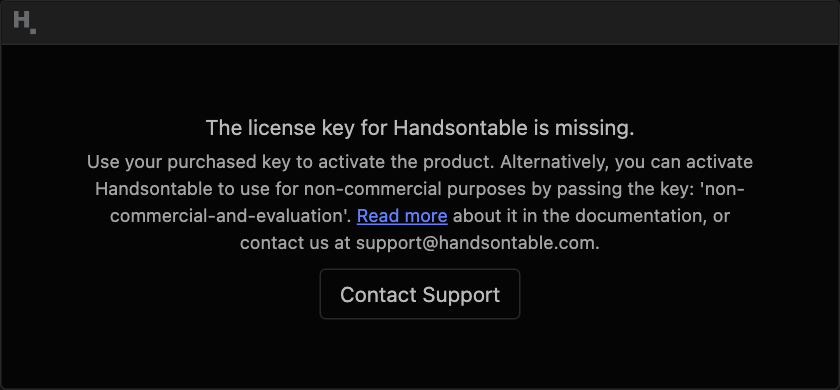
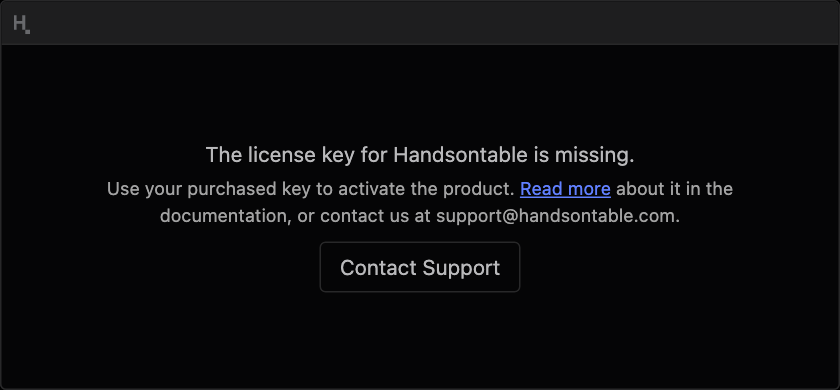
PRO-1357: Drop the non-commercial key sentence from the missing-key messages (#14138)
* PRO-1357: Drop the non-commercial key sentence from the missing-key messages

* PRO-1357: Add changelog entry for PR #14138

* PRO-1357: Retake the missing-key lock screenshots without the sentence

Changed region(s): [[0.0929, 0.3077, 0.8976, 0.7077], [0.4024, 0.7385, 0.619, 0.8], [0.0, 0.0308, 0.0619, 0.0923]]

diff --git a/handsontable/src/helpers/mixed.ts b/handsontable/src/helpers/mixed.ts
@@ -120,9 +120,7 @@ const consoleMessages: Record<string, (params: { keyValidityDate?: string; hotVe
     to ${keyValidityDate}. If you need any help, contact us at sales@handsontable.com.`,
   missing: () => toSingleLine`
     The license key for Handsontable is missing. Use your purchased key to activate the product.\x20
-    Alternatively, you can activate Handsontable to use for non-commercial purposes by\x20
-    passing the key: 'non-commercial-and-evaluation'. If you need any help, contact\x20
-    us at support@handsontable.com.`,
+    If you need any help, contact us at support@handsontable.com.`,
   non_commercial: () => '',
 };
 
@@ -182,9 +180,7 @@ const domMessages: Record<string, (params: { keyValidityDate?: string; hotVersio
     '.',
   ],
   missing: () => [
-    'The license key for Handsontable is missing. Use your purchased key to activate the product. ' +
-      'Alternatively, you can activate Handsontable to use for non-commercial purposes by ' +
-      'passing the key: \'non-commercial-and-evaluation\'. ',
+    'The license key for Handsontable is missing. Use your purchased key to activate the product. ',
     { text: 'Read more', href: 'https://handsontable.com/docs/tutorial-license-key.html', target: '_blank' },
     ' about it in the documentation or contact us at ',
     { text: 'support@handsontable.com', href: 'mailto:support@handsontable.com' },

diff --git a/tests/e2e/license-branding.spec.ts b/tests/e2e/license-branding.spec.ts
@@ -380,7 +380,10 @@ test.describe('entitlement license key branding', { tag: THEMES_TAG }, () => {
       await license.goto(INSTANT.duringTrial, { key: 'missing', variant: 'narrow' });
 
       await expect(license.lock).toBeVisible();
-      await expect(license.lock).toContainText('non-commercial-and-evaluation');
+      // The e-mail address is the longest unbreakable token left in the missing-key copy.
+      await expect(license.lock).toContainText('support@handsontable.com');
+      // PRO-1357: the lock no longer suggests the key the next major reads as invalid.
+      await expect(license.lock).not.toContainText('non-commercial-and-evaluation');
       expect(await license.lockContentOverflowPx()).toBe(0);
     });
 

diff --git a/tests/fixtures/pages/LicenseBrandingPage.ts b/tests/fixtures/pages/LicenseBrandingPage.ts
@@ -294,7 +294,7 @@ export class LicenseBrandingPage {
   /**
    * How far the lock's own content sticks out past the lock box, in pixels. The sentences moved here
    * from the bottom bar, which needed a minimum width and a scrolling slot for exactly this reason
-   * (DEV-2192): they hold unbreakable tokens ('non-commercial-and-evaluation', e-mail addresses) and
+   * (DEV-2192): they hold unbreakable tokens (e-mail addresses) and
    * the lock is only as wide as the grid, so on a narrow grid they used to push straight out of it.
    */
   async lockContentOverflowPx(): Promise<number> {

diff --git a/handsontable/src/utils/licenseBranding/content.ts b/handsontable/src/utils/licenseBranding/content.ts
@@ -100,9 +100,7 @@ export const LOCK_CONTENT: Partial<Record<LicenseStateKey, (lifecycle: LicenseLi
   }),
   missing: () => ({
     title: 'The license key for Handsontable is missing.',
-    description: 'Use your purchased key to activate the product. Alternatively, you can activate ' +
-      'Handsontable to use for non-commercial purposes by passing the key: ' +
-      '\'non-commercial-and-evaluation\'. ',
+    description: 'Use your purchased key to activate the product. ',
     action: { text: 'Contact Support', href: SUPPORT_MAILTO },
     docsLink: {
       text: 'Read more',

diff --git a/handsontable/src/utils/__tests__/licenseBranding.unit.js b/handsontable/src/utils/__tests__/licenseBranding.unit.js
@@ -711,7 +711,9 @@ describe('licenseBranding', () => {
         .querySelector('.ht-dialog__description').textContent;
 
       expect(description).toContain('Use your purchased key to activate the product.');
-      expect(description).toContain('passing the key: \'non-commercial-and-evaluation\'');
+      // PRO-1357: the next major reads that key as invalid, so the lock must not suggest it.
+      expect(description).not.toContain('non-commercial');
+      expect(description).not.toContain('Alternatively');
     });
 
     it.each(['invalid', 'missing'])(

diff --git a/handsontable/src/helpers/__tests__/mixed.unit.ts b/handsontable/src/helpers/__tests__/mixed.unit.ts
@@ -327,8 +327,6 @@ describe('Mixed helper', () => {
       expect(console.log).not.toHaveBeenCalled();
       expect(console.warn).toHaveBeenCalledWith([
         'The license key for Handsontable is missing. Use your purchased key to activate the product. ',
-        'Alternatively, you can activate Handsontable to use for non-commercial purposes ',
-        'by passing the key: \'non-commercial-and-evaluation\'. ',
         'If you need any help, contact us at support@handsontable.com.',
       ].join(''));
     });

diff --git a/handsontable/src/utils/entitlementLicenseKey/AGENTS.md b/handsontable/src/utils/entitlementLicenseKey/AGENTS.md
@@ -4,5 +4,5 @@ Rules for `src/utils/entitlementLicenseKey/` (the key reader), `src/utils/licens
 
 - **`KNOWN_CAPABILITIES` is assembled, never edited by hand.** `constants.ts` builds it from `['core', ...XLSX_CAPABILITY_IDS, XLSX_ALL_CAPABILITY]` (`utils/xlsxEngine/licenseCapabilities.ts`, which re-exports the list generated from `features.json` into `licenseCapabilities.generated.ts`; `xlsx:all` is the namespace grant, not a feature, and stays hand-written); the token names and descriptions live in `utils/xlsxEngine/features.json`, and the token rules in `src/featureManifest/AGENTS.md`. Whether a key restricts a family is decided by the per-product `listed-capabilities` flag (`LISTED_CAPABILITIES_FLAG`, equal to `KEY_FLAG` in `scripts/utils/feature-manifest.js`), not by the presence of a token: a `handsontable` entry without the flag unlocks every feature, because every key issued before the tokens existed carries only `core`, and a flagged entry unlocks exactly the tokens it lists (`xlsx:all` lists the whole xlsx family). Never read "no `xlsx:*` token" as "nothing unlocked". The flag rule is `_listsCapabilities()` in `_getLicenseState` (`helpers/mixed.ts`), which returns `UNRESTRICTED_GRANTS` for an entry without the flag; `resolveXlsxEntitlement(grants)` in `utils/xlsxEngine/xlsxEntitlement.ts` only maps the grants to the xlsx switches, and reads the flag nowhere.
 - **`__tests__/buildTestKey.js`, `__tests__/fixtures.js` and `__tests__/xlsxLicenseKeys.js` have an external consumer**: the Playwright license fixture `tests/fixtures/xlsxLicenseKeys.ts` imports them through Playwright's loader. Moving or renaming any of them breaks the `tests/e2e/xlsx-*-license` specs as well as the Jest suites; update that fixture in the same change. A flagged key from `keyWith()` also lists `feat:all` and `cell:all` (`NON_XLSX_TOKENS`): a flagged key turns off every plugin and cell type it does not list (the capability gate below), so without them a test of the xlsx gates would lose MergeCells, Comments, Formulas, AutoColumnSize, and the ExportFile and ImportFile calls themselves.
-- **License key validation is inlined and layered**: an entitlement key (plain-English prose followed by a machine-readable `[...]` block) is read by `src/utils/entitlementLicenseKey/` (`detectFormat.ts` = which format a key is in → `extractKeyData.ts` = key reader → `classify.ts` = window evaluation + silencing flags → `grants.ts` = capability tokens) — a port of `src/entitlement-key/` from the private `handsontable/license-key` repo; never add that package as a dependency, and keep the reader byte-compatible with it (a key the canonical validator rejects must not read here). The obfuscated legacy 25-character block in `helpers/mixed.ts` is frozen — an entitlement key routes out BEFORE it via the trailing-block shape test, and legacy CONSOLE behavior (including exact message text) must never change. **One legacy DOM behavior did change, by product decision (DEV-2562):** a missing or invalid key no longer renders a bottom bar — it renders the blocking modal instead (see below). Nothing else about the legacy path moved. **How a key is verified is documented in the private `license-key` repository, not here, and must stay out of this public file** - the key format and its versions in `.ai/ENTITLEMENT-KEY-FORMAT.md`, whose "Handsontable port" section holds the rules specific to this reader (18.1 compatibility, the keys already issued, the last sync). Read it before changing `extractKeyData.ts`; `vendor/entitlement-key-reader/` is copied into public repos, so nothing about the scheme goes there either, and keep the verification details out of this file, the code comments and pull request descriptions. The rules that matter here: change the reader only together with the canonical reader, and diff the port against `vendor/entitlement-key-reader` at the revision `__tests__/fixtures.js` names (`license-key` commit 12b800468a, after 6.2.0, at the last sync); every key format must stay readable by Handsontable 18.1, and the keys already issued must keep reading (the website form issues trial keys every day), so never tighten a rule on its own here - a key the canonical reader accepts must read here, and one it rejects must not; read payload fields as own properties, never through the prototype chain; do not bring back the `license-key` 5.0.0 rule, which was never released and locked 18.1 out of new keys and this reader out of the keys already issued. Never cut a key down to its block or strip characters from it before reading. Copy `PROSE_WHITESPACE` and `ESCAPED_WHITESPACE` verbatim from the vendored reader, never as `\s`, and keep their `\u` escapes as escapes - the file must stay 7-bit ASCII, and a raw U+2028 ends the regex literal. Fixtures are whole keys from the generator (`__tests__/fixtures.js` names the commit), because `buildTestKey` uses this reader's own helpers and so cannot catch a mismatch with the generator. A key whose block a mail client wrapped reads here and does NOT read on 18.1 (it locks the grid there). Whitespace AROUND the whole key IS trimmed, by `_trimKey` at the head of both `_injectProductInfo` and `_getLicenseState`, because an untrimmed key reads as `invalid` and `invalid` now blocks — trim in one of the two and they desync). **No contract type in the payload**: which of `usage_until` / `release_until` is present decides how the license is measured, and the `trial` flag decides only how it is worded — never branch on a tier, mode or plan name, none of which exist in the key. Exactly one of the two dates per product, a real bare `YYYY-MM-DD` STRING, or the key is invalid (`parseIsoDateToTimestamp` checks the type first: `['2027-08-12']` stringifies to a valid date, and an object with a non-function `toString` throws when stringified - a key must only ever read as data or as `null`, so never stringify a payload value before checking it is a string); `notice`/`grace` arrive IN the key (no behavioral constants in the library). Date rules that the specification's J-fixtures pin: `usage_until` is inclusive (valid until the UTC midnight that FOLLOWS it), the notice window is `notice > 0 && daysRemaining <= notice` with days counted UTC-midnight to UTC-midnight (60 at the window's open, 0 on the last licensed day), the hard stop is expiry + 1 day + `grace`, and `release_until` is compared to the build release date as TEXT (no clock, airgap-safe, fails OPEN when the build date is unavailable). Reading is STRICT about shape and LENIENT about vocabulary: an unknown product, capability token, flag or extra field is kept and ignored, never an error, or every token added on the issuing side would break builds already in the field. A key that grants another product but not `handsontable` is not a Handsontable license — it messages as invalid, and its grants stay unrestricted. The grants API is uniform across key families: legacy/missing/invalid keys resolve to unrestricted grants, so capability gating can never take a feature away from an existing customer. **So does an entitlement key whose Handsontable entry lacks the `listed-capabilities` flag** (the flag rule; `_listsCapabilities()` in `_getLicenseState`). Every key issued before the flag lists only `core`, and the reader's `hasCapability()` answers `false` for every token an entry does not list, flag or not, so a gate that read the reader's grants without that check would turn off every paid feature of every customer. The rule lives in `mixed.ts`, never in the reader port, which stays byte-compatible with the canonical reader (whose own `AGENTS.md` says the same). The gate built on it is `src/utils/licenseCapabilities/` (resolve, check, report) plus the message half in `licenseNotification.ts`; its rules are in a bullet of their own below. The branding UI is a MODULE CATALOG (`src/utils/licenseBranding/`: `index.ts` = state routing (read once at init), `content.ts` = copy, `badge.ts` = corner badge + popover, `lockScreen.ts` = the blocking lock screen) — a core util, NOT a plugin (plugins can be absent or disabled; license UI must not be). The corner badge + popover render for TRIAL states ONLY (`POPOVER_CONTENT` in `content.ts` holds exactly `trial_valid`, `trial_notice`, `trial_soft_stop`). Every other state — expired legacy, non-commercial, a running or lapsed subscription, a perpetual license (and the two blocking states, which show the modal instead) — shows NO badge; its console message and any bottom bar still come from `initLicenseNotification`/`_injectProductInfo` (the legacy console/bar messaging stays untouched, and `_classifyLegacyKey` in `mixed.ts` mirrors the frozen checks read-only). The two silencing flags are per product and resolved once into `descriptor.channels`: `no-console-warns` closes the console, `no-ui-warns` closes every WARNING surface (badge, popover and bar) — that is what keeps license copy away from the end users of a customer's SaaS app, so never render a license *warning* without checking `channels.ui`. **The `badge` flag (`BADGE_FLAG`) is not a channel, and no channel closes it:** it says the licensee agreed to show the "Powered by Handsontable DataGrid" bar (a sponsored license's term), which is branding, not a warning, so the bar renders outside the `channels.ui` gate, with or without `no-ui-warns`. The reader only keeps the flag in the entry's `flags`; `resolveChannels` ignores it, and the surface that shows the bar (DEV-3413) reads it from the entry itself. A key issued for external use carries `no-ui-warns` AND `badge` (fixture `SPONSORED_BADGE_EXTERNAL_KEY`), which is exactly the case the flag exists for. Do not confuse it with the trial corner badge, which `no-ui-warns` does close. **It does NOT close the LOCK (DEV-2709).** The flag covers UI *warnings*; the hard stop is the *enforcement* of a license that has stopped — so `mountBrandingSurface` routes `LOCK_CONTENT` BEFORE the channel gate, and only the badge sits behind it. What this fixed is external/SaaS **trials**: they are the only externally-issued keys that can be blocked at all (a lapsed subscription `usage_hard_stop` has no `LOCK_CONTENT` entry and blocks nothing, and `release_expired` never blocks). Only `trial_hard_stop` changes in practice — `invalid` and `missing` describe keys whose flags could not be read, so both always resolve to open channels and reached the lock either way. **This is a product decision, not a reading the specification states:** §4.1 heads its behavior column "Behaviour (unless `silent`)" over a hard-stop row reading "Trial: block", which read literally puts the block inside the silenced set, while §2.3's `trial` row separates "Trial messages" from "hard-stop block". The spec still needs amending to record the split — do not revert this from §4.1 alone. The same caveat is repeated at `NO_UI_WARNS_FLAG` (`entitlementLicenseKey/constants.ts`) and on `LicenseChannels` (`types.ts`), because those are the definition sites a maintainer reads first. The corner badge is click-through (`pointer-events: none`) so the corner header keeps its native select-all — hover is detected by delegation (`is-corner-hover` class), and the glyph itself is pure CSS - an `::after` inside the corner header cell, gated by BOTH `ht-license-badge-on` (on the root element) and `ht-license-badge-corner` (a class JS stamps on THIS grid's own corner-clone table, resolved via the Walkontable overlay); the glyph CSS keys off that marker, NEVER the structural `.ht_clone_top_inline_start_corner` class, which also matches a nested grid's corner clone and would paint a stray badge there. So it can never overflow or drift out of the corner; never rebuild it as a measured overlay (the overlay version broke visual tests with misaligned badges) - JS measurement exists only to anchor the popover. The mask carries the whole logomark (the "H" and its dot) in one color, in the corner glyph and in the lock-screen strip alike; the lock box has the mark's own 11.1415:16 proportions so its "H" starts at the start padding in RTL too. Only the corner glyph paints the blue dot, as a second `background-image` layer (`$license-badge-dot` in `_license-branding.scss`) drawn in the same viewBox, so both sized `contain` and centered land on each other - draw any new layer in that viewBox, keep `background-position: center`, and keep the brand blue inside the image. The popover is a PURELY VISUAL floating element: no focus scope, no shortcuts, badge/link/close all `tabindex="-1"`, visibility is pointer-only, close is mouse-click only (the info is duplicated in the console + bottom bar). The hard stop renders the CORE-OWNED lock screen (`lockScreen.ts`) — NEVER the Dialog plugin (a shared surface an app legitimately uses: any `show` would replace the lock, any hide would look like a dismissal, and `dialog: true` setups would never tear it down); the lock instead REUSES the confirm-dialog CSS by wearing its class names (`ht-dialog ht-dialog--confirm handsontable ...` — the stylesheet always ships in full, so styling is inherited without importing the plugin) and copies its width sizing (pin `style.width` to the table workspace width on `afterViewRender`, or the `.ht-dialog` box spans the whole root wrapper, not the grid). The lock DOES use the focus manager (modal scope) + shortcut manager (Tab trap only - the lock is non-dismissable, so there is no Escape/close). THREE states render the lock, and `LOCK_CONTENT` in `content.ts` IS that routing — adding a state to that table is what makes it block: `trial_hard_stop`, `invalid`, and `missing`. The last two are the specification's §4.5 shape, whose message text was answered by the product owner as 'the sentences the bottom bar used to carry', so those two states now show the modal INSTEAD of a bar (`_rendersBlockingModal`/`_BLOCKING_MODAL_STATES` in `mixed.ts` withhold the bar in both emitters; the console message is untouched, and the two locks point at support@ rather than sales@ because both are install faults, and carry the bar's documentation link as a real anchor inside the description). A hard-stopped subscription (`usage_hard_stop`) still blocks nothing and shows nothing: it repeats its soft-stop console error and that is all (18.1 never blocks a paying customer). **The soft-stopped trial deliberately shows BOTH a bar and its auto-opening popover, carrying the same two sentences — do not "de-duplicate" it (tried and reverted under DEV-2709).** The bar is the only license surface with a focusable link and a registered focus scope (`licenseNotification.ts`), while the popover is pointer-only by design (`tabIndex = -1` throughout, no focus scope, no `aria-live`); and the bar is the only surface that survives dismissal — on a grid with no corner cell, `is-cornerless` kills the hover path and every CSS rule that reopens the popover, so once the X is clicked the message is gone for the instance's life. Removing the bar there needs the popover to become keyboard-reachable and re-openable first. **Consequence for tests: a grid built with no `licenseKey` is now BLOCKED** — the lock deselects the cell and takes the keyboard, so every test grid must declare a key (the Jasmine helper injects `TEST_LICENSE_KEY` from `test/helpers/licenseKey.js` already; jsdom unit tests that call `new Handsontable` directly must import it and set it themselves, or selection-dependent assertions fail for no visible reason). Each suite reads its key from one place: `test/helpers/licenseKey.js` here, `tests/fixtures/demo/test-license-key.js` (`window.htTestLicenseKey`) in the Playwright fixtures, and a `licenseKey.ts` or `license-key.ts` in each wrapper's tests. Only a test of the license behavior itself writes a key out, and `scripts/__tests__/test-license-key.test.mjs` (root `test:tooling`) fails on a literal key in any other test file. The license key is read ONCE at init (like the console message and the bottom bar) — `updateSettings({licenseKey})` does NOT re-brand; applying a new key needs a fresh instance. Expiry compares against the build's release date, read BARE as `process.env.HOT_RELEASE_DATE` (in `licenseNotification.ts` and `licenseBranding/index.ts`) — the bundler (rspack DefinePlugin for `dist/`, SWC `inlineEnvVars` for `tmp/`) replaces it with a string literal, so NEVER wrap it in a `typeof process` guard: the guard is not inlined, compiles to `false` in browser bundles, blanks the date, and silently disables expired-key detection (an 18.0.0 regression). The badge reads its corner clone through the Walkontable API (`getOverlayByName`), NEVER a CSS `querySelector` on the root subtree (a nested grid — handsontable cell type — has its own corner clone earlier in document order that a selector would wrongly match). `extractEntitlementKeyData` memoizes on the key string (it is read twice per init) and returns frozen data, as the canonical reader does - copy an array before sorting or changing it. User-facing sentences repeated across surfaces (bar, popover, lock) live once as constants in `mixed.ts` (e.g. `_LICENSE_EXPIRED_TITLE`; every license symbol there is underscore-prefixed, because `index.ts` copies each non-underscore export of that module onto the public `Handsontable.helper`) — edit the constant, not each surface; every message is transcribed from the license specification, so reword it there first. Dates print as bare `YYYY-MM-DD`, with the `(UTC)` marker on console messages for `usage_until` and none on `release_until` (no clock takes part) or on the end-user-facing UI. The state-keyed tables (console/DOM notifications in `mixed.ts`, badge/lock content in `content.ts`) are typed `Partial<Record<LicenseStateKey, …>>`, NOT `Record<string, …>` — a typoed or unknown state key is then a compile error instead of a silently dropped entry. Test fixtures: real generator-produced keys in `src/utils/entitlementLicenseKey/__tests__/fixtures.js` (one per worked example of the specification) plus a test-only key builder (`buildTestKey.js`) for the shapes the generator refuses to produce; it must never be imported from `src/`.
+- **License key validation is inlined and layered**: an entitlement key (plain-English prose followed by a machine-readable `[...]` block) is read by `src/utils/entitlementLicenseKey/` (`detectFormat.ts` = which format a key is in → `extractKeyData.ts` = key reader → `classify.ts` = window evaluation + silencing flags → `grants.ts` = capability tokens) — a port of `src/entitlement-key/` from the private `handsontable/license-key` repo; never add that package as a dependency, and keep the reader byte-compatible with it (a key the canonical validator rejects must not read here). The obfuscated legacy 25-character block in `helpers/mixed.ts` is frozen — an entitlement key routes out BEFORE it via the trailing-block shape test, and legacy CONSOLE behavior (including exact message text) must never change. **One legacy DOM behavior did change, by product decision (DEV-2562):** a missing or invalid key no longer renders a bottom bar — it renders the blocking modal instead (see below). **One legacy console sentence was dropped, by product decision (PRO-1357):** the missing-key message (the console text and the bar text in `mixed.ts`, and the lock copy in `licenseBranding/content.ts`) no longer tells the developer to pass `'non-commercial-and-evaluation'`, because the next major reads that key as invalid. The key itself still reads as non-commercial; do not bring the sentence back. Nothing else about the legacy path moved. **How a key is verified is documented in the private `license-key` repository, not here, and must stay out of this public file** - the key format and its versions in `.ai/ENTITLEMENT-KEY-FORMAT.md`, whose "Handsontable port" section holds the rules specific to this reader (18.1 compatibility, the keys already issued, the last sync). Read it before changing `extractKeyData.ts`; `vendor/entitlement-key-reader/` is copied into public repos, so nothing about the scheme goes there either, and keep the verification details out of this file, the code comments and pull request descriptions. The rules that matter here: change the reader only together with the canonical reader, and diff the port against `vendor/entitlement-key-reader` at the revision `__tests__/fixtures.js` names (`license-key` commit 12b800468a, after 6.2.0, at the last sync); every key format must stay readable by Handsontable 18.1, and the keys already issued must keep reading (the website form issues trial keys every day), so never tighten a rule on its own here - a key the canonical reader accepts must read here, and one it rejects must not; read payload fields as own properties, never through the prototype chain; do not bring back the `license-key` 5.0.0 rule, which was never released and locked 18.1 out of new keys and this reader out of the keys already issued. Never cut a key down to its block or strip characters from it before reading. Copy `PROSE_WHITESPACE` and `ESCAPED_WHITESPACE` verbatim from the vendored reader, never as `\s`, and keep their `\u` escapes as escapes - the file must stay 7-bit ASCII, and a raw U+2028 ends the regex literal. Fixtures are whole keys from the generator (`__tests__/fixtures.js` names the commit), because `buildTestKey` uses this reader's own helpers and so cannot catch a mismatch with the generator. A key whose block a mail client wrapped reads here and does NOT read on 18.1 (it locks the grid there). Whitespace AROUND the whole key IS trimmed, by `_trimKey` at the head of both `_injectProductInfo` and `_getLicenseState`, because an untrimmed key reads as `invalid` and `invalid` now blocks — trim in one of the two and they desync). **No contract type in the payload**: which of `usage_until` / `release_until` is present decides how the license is measured, and the `trial` flag decides only how it is worded — never branch on a tier, mode or plan name, none of which exist in the key. Exactly one of the two dates per product, a real bare `YYYY-MM-DD` STRING, or the key is invalid (`parseIsoDateToTimestamp` checks the type first: `['2027-08-12']` stringifies to a valid date, and an object with a non-function `toString` throws when stringified - a key must only ever read as data or as `null`, so never stringify a payload value before checking it is a string); `notice`/`grace` arrive IN the key (no behavioral constants in the library). Date rules that the specification's J-fixtures pin: `usage_until` is inclusive (valid until the UTC midnight that FOLLOWS it), the notice window is `notice > 0 && daysRemaining <= notice` with days counted UTC-midnight to UTC-midnight (60 at the window's open, 0 on the last licensed day), the hard stop is expiry + 1 day + `grace`, and `release_until` is compared to the build release date as TEXT (no clock, airgap-safe, fails OPEN when the build date is unavailable). Reading is STRICT about shape and LENIENT about vocabulary: an unknown product, capability token, flag or extra field is kept and ignored, never an error, or every token added on the issuing side would break builds already in the field. A key that grants another product but not `handsontable` is not a Handsontable license — it messages as invalid, and its grants stay unrestricted. The grants API is uniform across key families: legacy/missing/invalid keys resolve to unrestricted grants, so capability gating can never take a feature away from an existing customer. **So does an entitlement key whose Handsontable entry lacks the `listed-capabilities` flag** (the flag rule; `_listsCapabilities()` in `_getLicenseState`). Every key issued before the flag lists only `core`, and the reader's `hasCapability()` answers `false` for every token an entry does not list, flag or not, so a gate that read the reader's grants without that check would turn off every paid feature of every customer. The rule lives in `mixed.ts`, never in the reader port, which stays byte-compatible with the canonical reader (whose own `AGENTS.md` says the same). The gate built on it is `src/utils/licenseCapabilities/` (resolve, check, report) plus the message half in `licenseNotification.ts`; its rules are in a bullet of their own below. The branding UI is a MODULE CATALOG (`src/utils/licenseBranding/`: `index.ts` = state routing (read once at init), `content.ts` = copy, `badge.ts` = corner badge + popover, `lockScreen.ts` = the blocking lock screen) — a core util, NOT a plugin (plugins can be absent or disabled; license UI must not be). The corner badge + popover render for TRIAL states ONLY (`POPOVER_CONTENT` in `content.ts` holds exactly `trial_valid`, `trial_notice`, `trial_soft_stop`). Every other state — expired legacy, non-commercial, a running or lapsed subscription, a perpetual license (and the two blocking states, which show the modal instead) — shows NO badge; its console message and any bottom bar still come from `initLicenseNotification`/`_injectProductInfo` (the legacy console/bar messaging stays untouched, and `_classifyLegacyKey` in `mixed.ts` mirrors the frozen checks read-only). The two silencing flags are per product and resolved once into `descriptor.channels`: `no-console-warns` closes the console, `no-ui-warns` closes every WARNING surface (badge, popover and bar) — that is what keeps license copy away from the end users of a customer's SaaS app, so never render a license *warning* without checking `channels.ui`. **The `badge` flag (`BADGE_FLAG`) is not a channel, and no channel closes it:** it says the licensee agreed to show the "Powered by Handsontable DataGrid" bar (a sponsored license's term), which is branding, not a warning, so the bar renders outside the `channels.ui` gate, with or without `no-ui-warns`. The reader only keeps the flag in the entry's `flags`; `resolveChannels` ignores it, and the surface that shows the bar (DEV-3413) reads it from the entry itself. A key issued for external use carries `no-ui-warns` AND `badge` (fixture `SPONSORED_BADGE_EXTERNAL_KEY`), which is exactly the case the flag exists for. Do not confuse it with the trial corner badge, which `no-ui-warns` does close. **It does NOT close the LOCK (DEV-2709).** The flag covers UI *warnings*; the hard stop is the *enforcement* of a license that has stopped — so `mountBrandingSurface` routes `LOCK_CONTENT` BEFORE the channel gate, and only the badge sits behind it. What this fixed is external/SaaS **trials**: they are the only externally-issued keys that can be blocked at all (a lapsed subscription `usage_hard_stop` has no `LOCK_CONTENT` entry and blocks nothing, and `release_expired` never blocks). Only `trial_hard_stop` changes in practice — `invalid` and `missing` describe keys whose flags could not be read, so both always resolve to open channels and reached the lock either way. **This is a product decision, not a reading the specification states:** §4.1 heads its behavior column "Behaviour (unless `silent`)" over a hard-stop row reading "Trial: block", which read literally puts the block inside the silenced set, while §2.3's `trial` row separates "Trial messages" from "hard-stop block". The spec still needs amending to record the split — do not revert this from §4.1 alone. The same caveat is repeated at `NO_UI_WARNS_FLAG` (`entitlementLicenseKey/constants.ts`) and on `LicenseChannels` (`types.ts`), because those are the definition sites a maintainer reads first. The corner badge is click-through (`pointer-events: none`) so the corner header keeps its native select-all — hover is detected by delegation (`is-corner-hover` class), and the glyph itself is pure CSS - an `::after` inside the corner header cell, gated by BOTH `ht-license-badge-on` (on the root element) and `ht-license-badge-corner` (a class JS stamps on THIS grid's own corner-clone table, resolved via the Walkontable overlay); the glyph CSS keys off that marker, NEVER the structural `.ht_clone_top_inline_start_corner` class, which also matches a nested grid's corner clone and would paint a stray badge there. So it can never overflow or drift out of the corner; never rebuild it as a measured overlay (the overlay version broke visual tests with misaligned badges) - JS measurement exists only to anchor the popover. The mask carries the whole logomark (the "H" and its dot) in one color, in the corner glyph and in the lock-screen strip alike; the lock box has the mark's own 11.1415:16 proportions so its "H" starts at the start padding in RTL too. Only the corner glyph paints the blue dot, as a second `background-image` layer (`$license-badge-dot` in `_license-branding.scss`) drawn in the same viewBox, so both sized `contain` and centered land on each other - draw any new layer in that viewBox, keep `background-position: center`, and keep the brand blue inside the image. The popover is a PURELY VISUAL floating element: no focus scope, no shortcuts, badge/link/close all `tabindex="-1"`, visibility is pointer-only, close is mouse-click only (the info is duplicated in the console + bottom bar). The hard stop renders the CORE-OWNED lock screen (`lockScreen.ts`) — NEVER the Dialog plugin (a shared surface an app legitimately uses: any `show` would replace the lock, any hide would look like a dismissal, and `dialog: true` setups would never tear it down); the lock instead REUSES the confirm-dialog CSS by wearing its class names (`ht-dialog ht-dialog--confirm handsontable ...` — the stylesheet always ships in full, so styling is inherited without importing the plugin) and copies its width sizing (pin `style.width` to the table workspace width on `afterViewRender`, or the `.ht-dialog` box spans the whole root wrapper, not the grid). The lock DOES use the focus manager (modal scope) + shortcut manager (Tab trap only - the lock is non-dismissable, so there is no Escape/close). THREE states render the lock, and `LOCK_CONTENT` in `content.ts` IS that routing — adding a state to that table is what makes it block: `trial_hard_stop`, `invalid`, and `missing`. The last two are the specification's §4.5 shape, whose message text was answered by the product owner as 'the sentences the bottom bar used to carry', so those two states now show the modal INSTEAD of a bar (`_rendersBlockingModal`/`_BLOCKING_MODAL_STATES` in `mixed.ts` withhold the bar in both emitters; the console message is untouched, and the two locks point at support@ rather than sales@ because both are install faults, and carry the bar's documentation link as a real anchor inside the description). A hard-stopped subscription (`usage_hard_stop`) still blocks nothing and shows nothing: it repeats its soft-stop console error and that is all (18.1 never blocks a paying customer). **The soft-stopped trial deliberately shows BOTH a bar and its auto-opening popover, carrying the same two sentences — do not "de-duplicate" it (tried and reverted under DEV-2709).** The bar is the only license surface with a focusable link and a registered focus scope (`licenseNotification.ts`), while the popover is pointer-only by design (`tabIndex = -1` throughout, no focus scope, no `aria-live`); and the bar is the only surface that survives dismissal — on a grid with no corner cell, `is-cornerless` kills the hover path and every CSS rule that reopens the popover, so once the X is clicked the message is gone for the instance's life. Removing the bar there needs the popover to become keyboard-reachable and re-openable first. **Consequence for tests: a grid built with no `licenseKey` is now BLOCKED** — the lock deselects the cell and takes the keyboard, so every test grid must declare a key (the Jasmine helper injects `TEST_LICENSE_KEY` from `test/helpers/licenseKey.js` already; jsdom unit tests that call `new Handsontable` directly must import it and set it themselves, or selection-dependent assertions fail for no visible reason). Each suite reads its key from one place: `test/helpers/licenseKey.js` here, `tests/fixtures/demo/test-license-key.js` (`window.htTestLicenseKey`) in the Playwright fixtures, and a `licenseKey.ts` or `license-key.ts` in each wrapper's tests. Only a test of the license behavior itself writes a key out, and `scripts/__tests__/test-license-key.test.mjs` (root `test:tooling`) fails on a literal key in any other test file. The license key is read ONCE at init (like the console message and the bottom bar) — `updateSettings({licenseKey})` does NOT re-brand; applying a new key needs a fresh instance. Expiry compares against the build's release date, read BARE as `process.env.HOT_RELEASE_DATE` (in `licenseNotification.ts` and `licenseBranding/index.ts`) — the bundler (rspack DefinePlugin for `dist/`, SWC `inlineEnvVars` for `tmp/`) replaces it with a string literal, so NEVER wrap it in a `typeof process` guard: the guard is not inlined, compiles to `false` in browser bundles, blanks the date, and silently disables expired-key detection (an 18.0.0 regression). The badge reads its corner clone through the Walkontable API (`getOverlayByName`), NEVER a CSS `querySelector` on the root subtree (a nested grid — handsontable cell type — has its own corner clone earlier in document order that a selector would wrongly match). `extractEntitlementKeyData` memoizes on the key string (it is read twice per init) and returns frozen data, as the canonical reader does - copy an array before sorting or changing it. User-facing sentences repeated across surfaces (bar, popover, lock) live once as constants in `mixed.ts` (e.g. `_LICENSE_EXPIRED_TITLE`; every license symbol there is underscore-prefixed, because `index.ts` copies each non-underscore export of that module onto the public `Handsontable.helper`) — edit the constant, not each surface; every message is transcribed from the license specification, so reword it there first. Dates print as bare `YYYY-MM-DD`, with the `(UTC)` marker on console messages for `usage_until` and none on `release_until` (no clock takes part) or on the end-user-facing UI. The state-keyed tables (console/DOM notifications in `mixed.ts`, badge/lock content in `content.ts`) are typed `Partial<Record<LicenseStateKey, …>>`, NOT `Record<string, …>` — a typoed or unknown state key is then a compile error instead of a silently dropped entry. Test fixtures: real generator-produced keys in `src/utils/entitlementLicenseKey/__tests__/fixtures.js` (one per worked example of the specification) plus a test-only key builder (`buildTestKey.js`) for the shapes the generator refuses to produce; it must never be imported from `src/`.
 - **The capability gate (`src/utils/licenseCapabilities/`, DEV-3658).** A key that restricts (the flag rule above) unlocks `core`, the tokens it lists, every token a `<namespace>:all` it lists covers, and the `implies` of every listed plugin that is REGISTERED: the requirements come from each plugin class's static `LICENSE` (generated from its `feature.json`, see `../../featureManifest/AGENTS.md`), never from a global table, so a key that names a feature keeps working when a later release adds a requirement to it, and an unregistered plugin adds nothing. `implies` is already the full closure, so one pass over the registered classes is enough. The result is cached per key string AND the registered plugin count, because a plugin registered later changes the implications; the count comes from `countRegisteredPlugins()` (`plugins/registry.ts`), never `getPluginsNames().length`, which copies and sorts the registry on every check (every plugin asks on every `updateSettings()`, and CheckboxHeader on every render). A nested grid (menus, the Filters value list, a grid inside a cell) is never checked (`isRootInstance`). Three places check it: `BasePlugin#isLicenseBlocked()` for `gate: 'enable'` plugins, at the init turn, in `onUpdateSettings` and in the `enablePlugin()` lifecycle wrapper, so a direct call from an app is checked too (the rules, and why a plugin the key keeps off blocks no hard-conflict partner, are in `../../plugins/base/AGENTS.md`), `assertLicensedCall()` at the top of the public methods of the `gate: 'call'` plugins that are on in every grid (ExportFile, ImportFile, ViewState: report, write the message, then THROW the same text; an async method rejects), and `isLicensedUse()` where a check runs during a render and must not throw (CheckboxHeader's `hasHeaderCheckbox()`). **The message is batched, never written per plugin.** A check records the feature (`reportMissingCapability()`, per root grid and key). A plugin the key keeps off at enable passes a check of its own (option still on, plugin still not running), and `pruneMissingCapabilities()` drops it from the list once that fails, so turning the option off takes it out of the bar; a feature refused on a call stays, because the key still leaves it out. `flushMissingCapabilities()` in `licenseNotification.ts` writes the list: at the end of `initLicenseNotification` (the plugins had their init turn during `beforeInit`, before it), from an `afterUpdateSettings` listener at order index 1000 (after every plugin's own default-order listener, so one `updateSettings()` gives one message), at once from a throwing call gate, and from a microtask after a render. It does nothing before `initLicenseNotification` started for the grid (`notifiedGrids`): a gated call from an `afterLoadData` listener runs during init, before the lifecycle bar, and a bar mounted there registered the focus scope that the lifecycle bar then registered again, which throws. The record compares the set of tokens it last wrote, not a count, because one pass can drop one feature and add another. The list is sorted by display name, because the bar shows names only; every new feature prints the whole current list again, so the latest error alone names everything the key leaves out. The console error prints once per page per key and set of features (`printedMissingFeatures`), and only when the list gained a feature (a shorter list updates the bar alone); and `no-console-warns` / `no-ui-warns` close their surface only: the feature stays off. **One bar per grid.** The text goes into the grid's one `.hot-display-license-info` element as a second `_inner` block (`hot-display-license-info_missing-features`) when a lifecycle message already holds the bar (a flagged perpetual key past its maintenance date), and a grid with no bar gets one through `mountBottomLicenseBar()`; never mount a second bar, because `getNotificationElement()` reads the first and the focus scope is one per grid. Build the bar and its blocks with `_createLicenseBar()` and `_createLicenseBarBlock()` (`mixed.ts`); the frozen legacy emitter keeps its own inline copy of the same shape. A key passed later that leaves nothing out takes the block away (and the bar, when it holds no lifecycle message), and forgets the list, so a later restricting key shows it again. The bar the gate built is kept per grid (`ownBars`) and put back rather than built again: its focus scope is registered once, and `registerScope()` throws on the same id twice. The sales address is a `mailto:` link, which is what the bar's focus scope lands on from the keyboard. **The gate never writes the plugin's setting** (unlike a hard conflict at init), so `getSettings()` keeps what the user wrote and a later key that lists the feature turns it on. The cost is that a blocked plugin's `isEnabled()` answers `true`, so code that asks another plugin whether it RUNS reads `.enabled`, everywhere in `src/`: `test/__tests__/crossPluginIsEnabled.unit.js` fails on any `.isEnabled()` call whose receiver is not `this` or `super`, and its allowlist holds the one read that means the option (Loading's `enablePlugin()` switching the Dialog option on). The reads it replaced were not harmless: an XLSX export threw on a blocked ColumnSummary (no endpoints, like MergeCells' missing collection), an import wrote live formulas and `'`-escaped text for a blocked Formulas, and ManualRowResize kept a resized row at its declared height for a blocked AutoRowSize. **A blocked plugin's public methods are not checked**, and they behave exactly as the methods of a plugin turned off by its option, because neither ran `enablePlugin()`: measured on 2026-11-02 over 17 calls in 10 plugins, every result matched, and the ones that throw a bare `TypeError` (MergeCells `merge()`, HiddenRows `hideRow()`, ColumnSorting `sort()`, NestedRows `collapsingUI`) throw it with the option off too. The gate adds no new failure, but an app that set the option expects the methods to work; the license guide tells it not to call them. Checking every method of the 45 `gate: 'enable'` plugins would be a change of its own. Cell types are not checked (every restricted key carries `cell:all`). Message copy: `_buildMissingFeaturesMessage()` in `mixed.ts`, transcribed from the specification (rev 6, section 10.4). It returns two forms of the list: the console text, which is also what a refused call throws, names each feature as `<display name> (<token>)` for the developer, and the bar names it by display name only, because the bar can reach the end users of an app; keep tokens out of anything rendered in the grid. Fixtures: the flagged keys at the end of `__tests__/fixtures.js` (license-key 6.2.0, the Handsontable token list emptied, perpetual to 2099-12-31 so nothing depends on the clock), and the same keys inlined in `tests/fixtures/demo/license-capabilities.html`.

diff --git a/docs/content/guides/getting-started/license-key/license-key.md b/docs/content/guides/getting-started/license-key/license-key.md
@@ -408,7 +408,7 @@ The messages are as follows:
 
 Shown in a blocking modal and in the console:
 
-_The license key for Handsontable is missing. Use your purchased key to activate the product. Alternatively, you can activate Handsontable to use for non-commercial purposes by passing the key: ‘non-commercial-and-evaluation’.  Read more about it in the documentation or contact us at `[email]`._
+_The license key for Handsontable is missing. Use your purchased key to activate the product.  Read more about it in the documentation or contact us at `[email]`._
 
 ### Invalid license key
 
